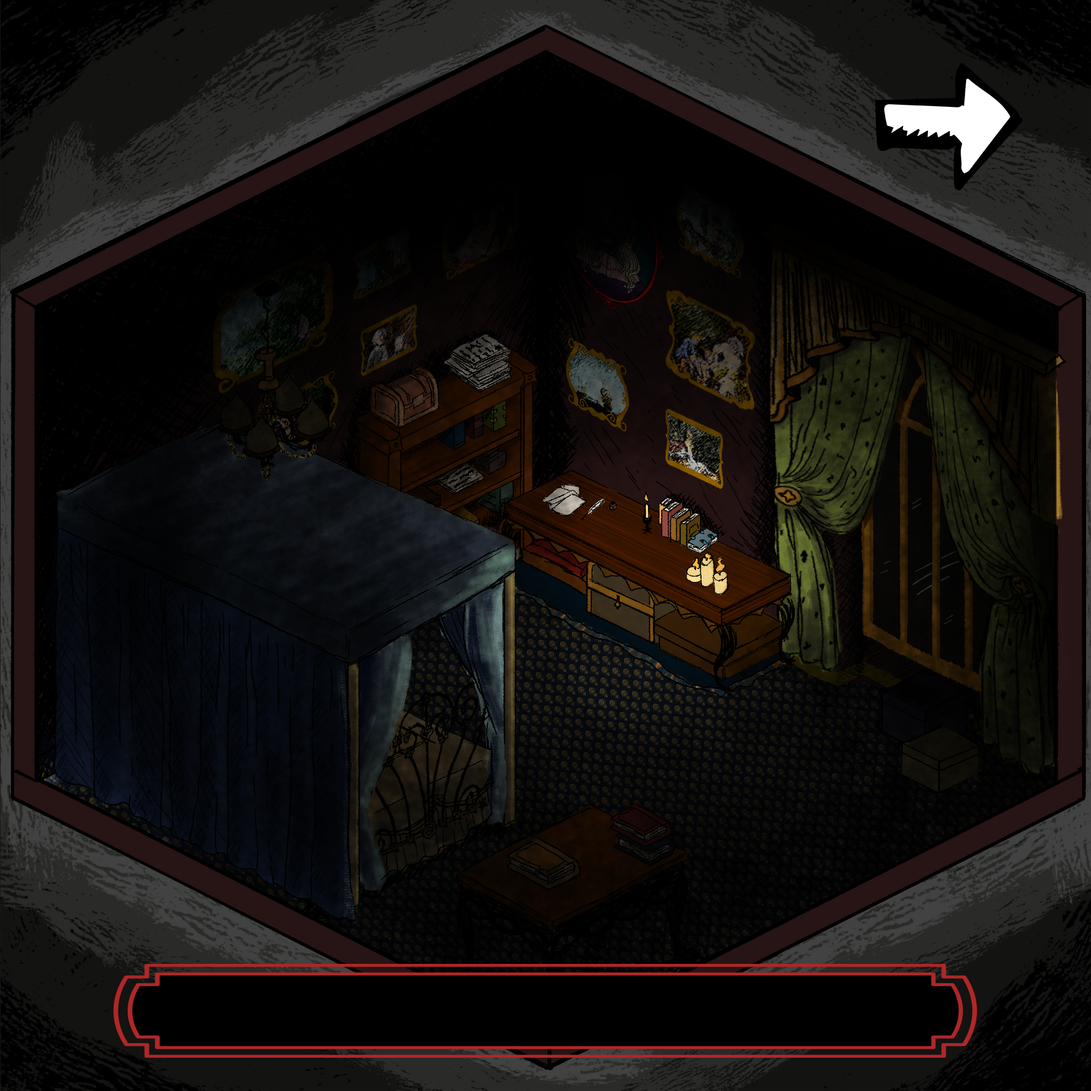
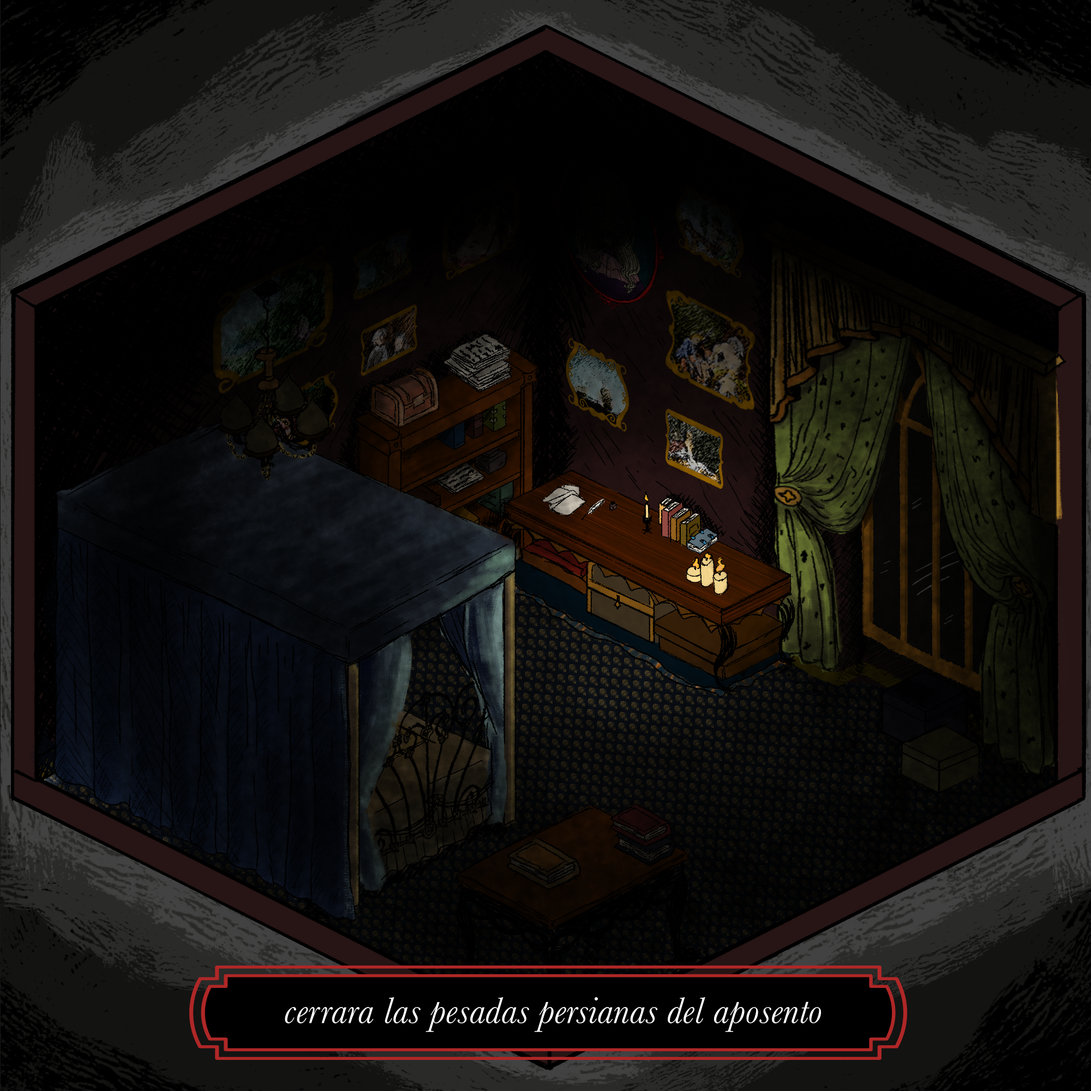
progreso

Changed region(s): [[0.093, 0.868, 0.899, 0.992], [0.806, 0.062, 0.93, 0.186]]

diff --git a/src/controller/Control.java b/src/controller/Control.java
@@ -16,24 +16,29 @@ public class Control extends PApplet {
 		PApplet.main(Control.class.getName());
 	}
 
-	
-	
 	PImage coverScreen;
-	PImage textoScreen;
-	PImage textoScreen2;
+	PImage P2;
+	PImage P1;
 	PImage overScreen;
 	PImage elemento0;
+	PImage foreground1;
+	PImage foreground2;
+	PImage personajes;
+	PImage midground;
+	PImage background;
+	PImage flecha;
+
+	int parallax;
+	boolean move;
 
 	ArrayList<Element> ele;
-	
+
 	public void settings() {
-		size(1000,1000);
-		
-		
+		size(1000, 1000);
 
 		ele = new ArrayList<Element>();
 
-		Element a1 = new Element("Cortina", "./data/elemento1.png", false, Element.TIPO_1, 0, 0, 0, 0);
+		Element a1 = new Element("Cortina", "./data/elemento1.png", false, Element.TIPO_1, 0, 0, 1000, 1000);
 		ele.add(a1);
 		Element a2 = new Element("Lampara", "./data/elemento2.png", false, Element.TIPO_2, 0, 0, 0, 0);
 		ele.add(a2);
@@ -43,145 +48,258 @@ public class Control extends PApplet {
 		ele.add(a4);
 		Element a5 = new Element("Pintura", "./data/elemento5.png", false, Element.TIPO_5, 0, 0, 0, 0);
 		ele.add(a5);
-		
-		
+
 		// posX y posY area sensible elementos
 
 		compo = new Composition(ele);
-		
+
 		inter = new Interface(this);
 
 	}
 
 	public void setup() {
-		
+
 		screen = 1;
-	
+
 		coverScreen = null;
 		coverScreen = loadImage("./data/coverScreen.png");
-		
-		textoScreen = null;
-		textoScreen = loadImage("./data/textoScreen.png");
-		
-		textoScreen2 = null;
-		textoScreen2 = loadImage("./data/textoScreen2.png");
-		
+
+		P2 = null;
+		P2 = loadImage("./data/P2.png");
+
+		P1 = null;
+		P1 = loadImage("./data/P1.png");
+
 		overScreen = null;
 		overScreen = loadImage("./data/overScreen.png");
-		
+
 		elemento0 = null;
 		elemento0 = loadImage("./data/elemento0.png");
+
+		foreground1 = null;
+		foreground1 = loadImage("./data/foreground1.png");
+
+		foreground2 = null;
+		foreground2 = loadImage("./data/foreground2.png");
+
+		personajes = null;
+		personajes = loadImage("./data/personajes.png");
+
+		midground = null;
+		midground = loadImage("./data/midground.png");
+
+		background = null;
+		background = loadImage("./data/background.png");
+
+		parallax = 35;
+
+		flecha = null;
+		flecha = loadImage("./data/flecha.png");
+
+		move = false;
 	}
-	
-	
 
 	public void draw() {
 		switch (screen) {
 		case 1:
-			
-			image(coverScreen, 0, 0, 1000,1000);
+
+			// PORTADA
+
+			image(coverScreen, 0, 0, 1000, 1000);
+
+			textSize(15);
+			fill(255);
+			text(mouseX + "," + mouseY, mouseX, mouseY);
 
 			break;
 
 		case 2:
-			
-			
 
+			// PARALLAX
+
+			// image(flecha, 0, 0, 1000, 1000);
+			image(background, -150 + (parallax), 0, 2000, 1000);
+			image(midground, -150 + (parallax * 2), 0, 2000, 1000);
+			image(foreground2, -150 + (parallax * 3), 0, 2000, 1000);
+			image(personajes, 0, 0, 2000, 1000);
+			image(foreground1, -150 + (parallax * 3), 0, 2000, 1000);
+
+			if (mouseX > 800) {
+
+                if (parallax >= -35) {
+                    parallax= parallax -2;
+
+                }else {
+                	move = true;
+                }
+
+
+            }
+
+			textSize(15);
+			fill(255);
+			text(mouseX + "," + mouseY, mouseX, mouseY);
 
 			break;
 
 		case 3:
-			image(textoScreen, 0, 0, 1000,1000);
 
+			// TEXTO P1
+			image(P1, 0, 0, 1000, 1000);
+
+			textSize(15);
+			fill(255);
+			text(mouseX + "," + mouseY, mouseX, mouseY);
 
 			break;
 
 		case 4:
-			image(textoScreen2, 0, 0, 1000,1000);
 
+			// P2
+			image(P2, 0, 0, 1000, 1000);
 
+			textSize(15);
+			fill(255);
+			text(mouseX + "," + mouseY, mouseX, mouseY);
 
 			break;
 
 		case 5:
+
+			// ELEMENTO 0
+
+			//image(elemento0, 0, 0, 1000, 1000);
+
 			
-			image(elemento0, 0, 0, 1000,1000);
+			
+			// ELEMENTO 1
+
+			for (int i = 0; i < ele.size(); i++) {
+				if (ele.get(i).getTipo() == Element.TIPO_1) {
+					inter.drawElement(ele.get(i));
+
+					break;
+				}
+			}
+			
+			
+			textSize(15);
+			fill(255);
+			text(mouseX + "," + mouseY, mouseX, mouseY);
 
 			break;
 
 		case 6:
-			
-			for (int i = 0; i < ele.size(); i++) {
-				if (ele.get(i).getTipo() == Element.TIPO_1) {
-					inter.drawElement(ele.get(i));
-					
-					break;
-				}
-			}
-			
-			
 
 			break;
-			
+
 		case 7:
-			
+
+			// P3
+
+			image(elemento0, 0, 0, 1000, 1000);
+
+			break;
+
+		case 8:
+
+			// ELEMENTO 2
+
 			for (int i = 0; i < ele.size(); i++) {
 				if (ele.get(i).getTipo() == Element.TIPO_2) {
 					inter.drawElement(ele.get(i));
-					
+
 					break;
 				}
 			}
 
 			break;
-			
-		case 8:
-			
+
+		case 9:
+
+			// ELEMENTO2_2
+
+			image(elemento0, 0, 0, 1000, 1000);
+
+			break;
+
+		case 10:
+
+			// ELEMENTO 3
+
 			for (int i = 0; i < ele.size(); i++) {
 				if (ele.get(i).getTipo() == Element.TIPO_3) {
 					inter.drawElement(ele.get(i));
-					
+
 					break;
 				}
 			}
 
 			break;
-			
-		case 9:
-			
+
+		case 11:
+
+			// ELEMENTO 4
+
 			for (int i = 0; i < ele.size(); i++) {
 				if (ele.get(i).getTipo() == Element.TIPO_4) {
 					inter.drawElement(ele.get(i));
-					
+
 					break;
 				}
 			}
 
 			break;
-			
-		case 10:
-			
+
+		case 12:
+
+			// ELEMENTO 5
+
 			for (int i = 0; i < ele.size(); i++) {
 				if (ele.get(i).getTipo() == Element.TIPO_5) {
 					inter.drawElement(ele.get(i));
-					
+
 					break;
 				}
 			}
 
 			break;
-			
-		case 11:
-			
-			image(overScreen, 0, 0, 1000,1000);
+
+		case 13:
+
+			// FINAL SCREEN
+
+			image(overScreen, 0, 0, 1000, 1000);
 
 			break;
 
 		}
 	}
 
-	public void mouseClicked() {
+	public void mousePressed() {
 
+		// DE COVER A PARALLAX
+		if (screen == 1 && mouseX > 420 && mouseX < 585 && mouseY > 731 && mouseY < 770) {
+			screen = 2;
+
+		}
+
+		// temporal para pasar del parallax PARALLAX A CUENTO P1
+		if (screen == 2 && mouseX > 800 && move) {
+			screen = 3;
+
+		}
+
+
+		// CUENTO - P1 A P2 - mouses area de la flecha
+		if (screen == 3 && mouseX > 800 && mouseX < 941 && mouseY > 61 && mouseY < 183) {
+			screen = 4;
+		}
+
+		// CUENTO - P2 a ELEMENTO1 - mouses area de la flecha
+		if (screen == 4 && mouseX > 800 && mouseX < 941 && mouseY > 61 && mouseY < 183) {
+			screen = 5;
+		}
 	}
 
 }

diff --git a/src/view/Interface.java b/src/view/Interface.java
@@ -17,7 +17,7 @@ public class Interface {
 		app.background(0);
 		PImage elementos = null;
 		elementos = app.loadImage(element.getUrl());
-		app.image(elementos, 0, 0);
+		app.image(elementos, 0, 0, 1000, 1000);
 	}
 	
 }
